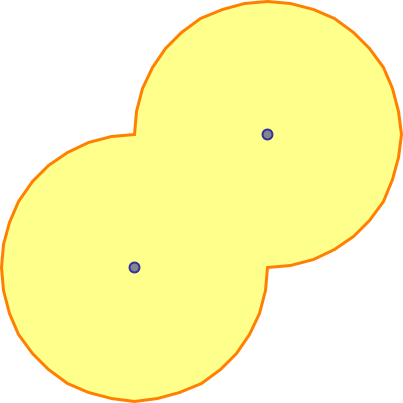
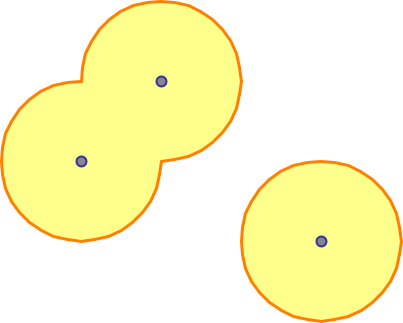
[buffer][doc] Enhance doc

diff --git a/include/boost/geometry/algorithms/buffer.hpp b/include/boost/geometry/algorithms/buffer.hpp
@@ -214,14 +214,15 @@ Output return_buffer(Input const& geometry, Distance const& distance, Distance c
 \ingroup buffer
 \details \details_calc{buffer, \det_buffer}.
 \tparam GeometryIn \tparam_geometry
-\tparam MultiPolygon \tparam_geometry
-\tparam DistanceStrategy A strategy defining distance behaviour (symmetric, asymetric)
-\tparam SideStrategy A strategy defining creation of buffer along sides
-\tparam JoinStrategy A strategy defining creation of buffer around convex joins (round, miter)
-\tparam EndStrategy A strategy defining creation of buffer at linestring ends (round, flat)
-\tparam PointStrategy A strategy defining creation of buffer around points
+\tparam MultiPolygon \tparam_geometry{MultiPolygon}
+\tparam DistanceStrategy A strategy defining distance (or radius)
+\tparam SideStrategy A strategy defining creation along sides
+\tparam JoinStrategy A strategy defining creation around convex corners
+\tparam EndStrategy A strategy defining creation at linestring ends
+\tparam PointStrategy A strategy defining creation around points
 \param geometry_in \param_geometry
-\param geometry_out output multi polygon (or std:: collection of polygons), contains buffer of input geometry
+\param geometry_out output multi polygon (or std:: collection of polygons),
+    will contain a buffered version of the input geometry
 \param distance_strategy The distance strategy to be used
 \param side_strategy The side strategy to be used
 \param join_strategy The join strategy to be used

diff --git a/doc/src/examples/algorithms/buffer_with_strategies.cpp b/doc/src/examples/algorithms/buffer_with_strategies.cpp
@@ -45,7 +45,7 @@ int main()
 
     // Declare/fill a multi point
     boost::geometry::model::multi_point<point> mp;
-    boost::geometry::read_wkt("MULTIPOINT((3 3),(4 4))", mp);
+    boost::geometry::read_wkt("MULTIPOINT((3 3),(4 4),(6 2))", mp);
 
     // Create the buffer of a multi point
     boost::geometry::buffer(mp, result,
